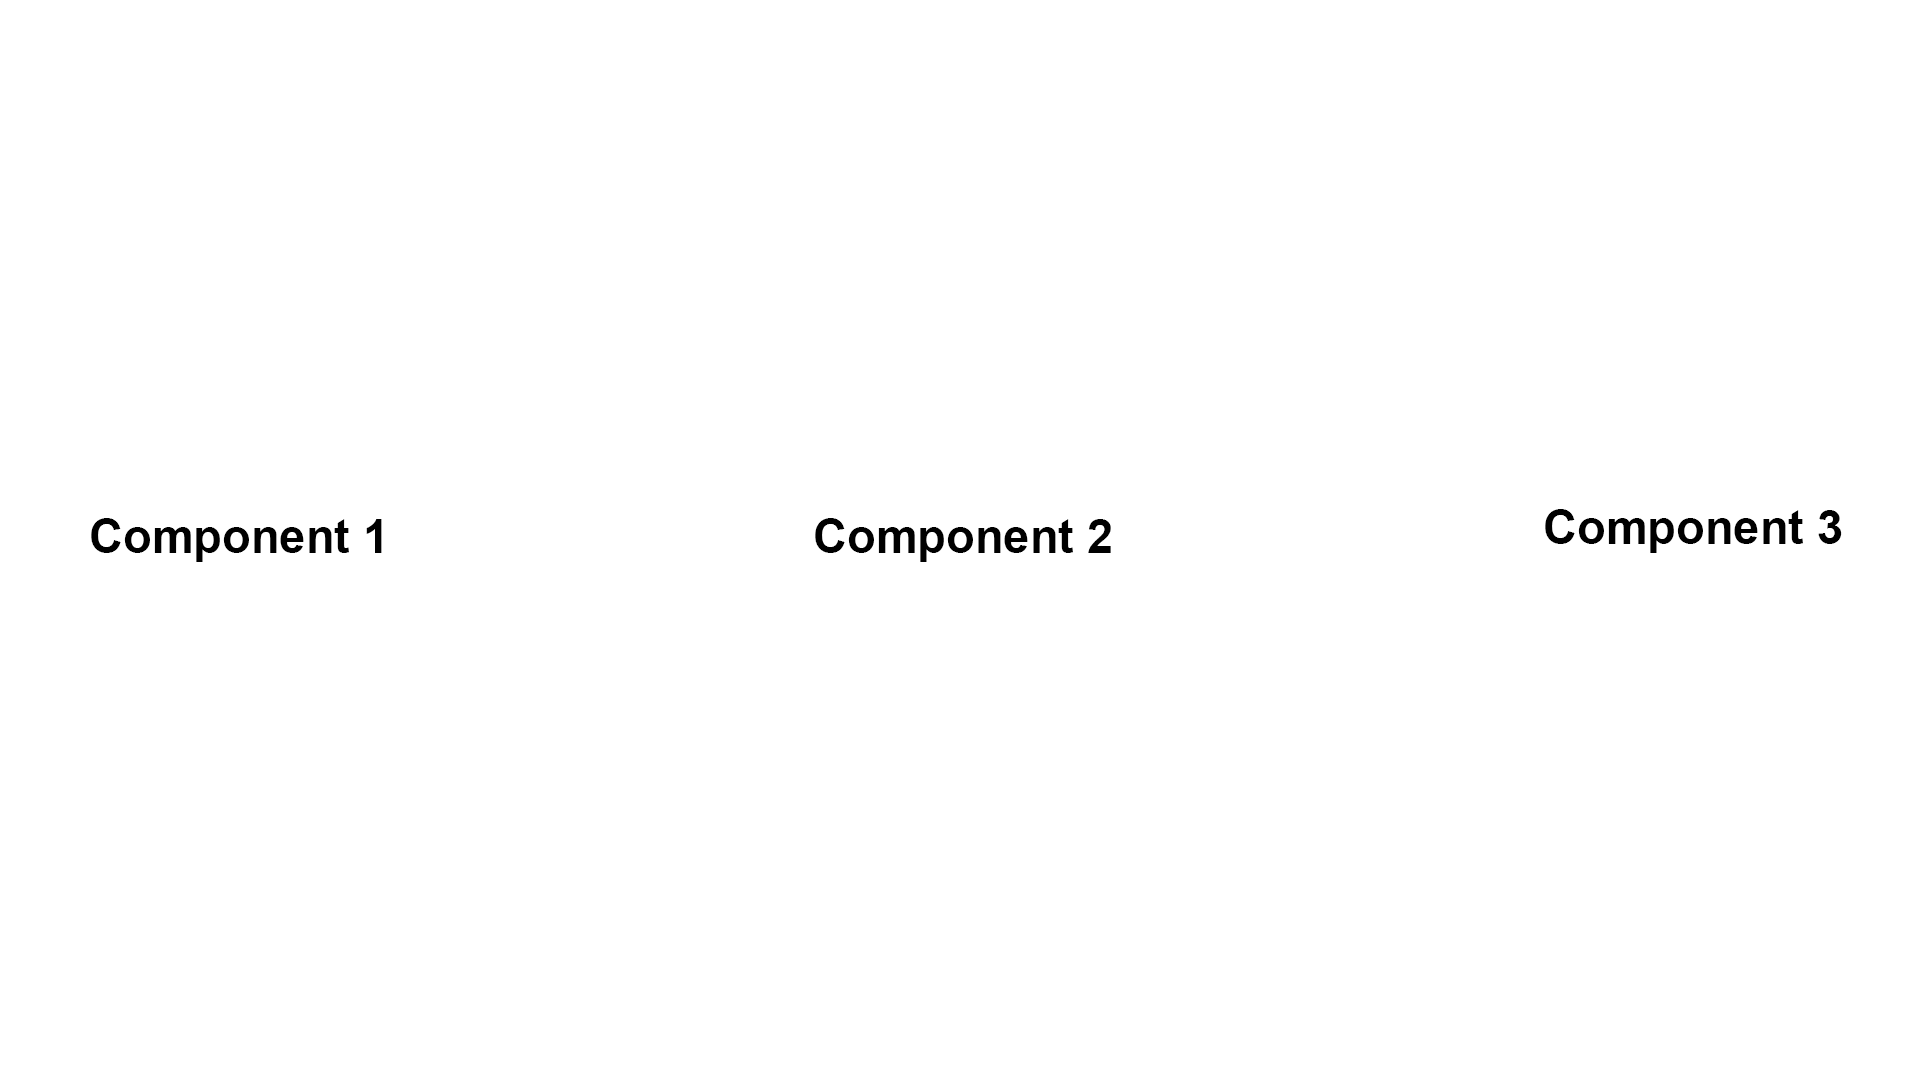
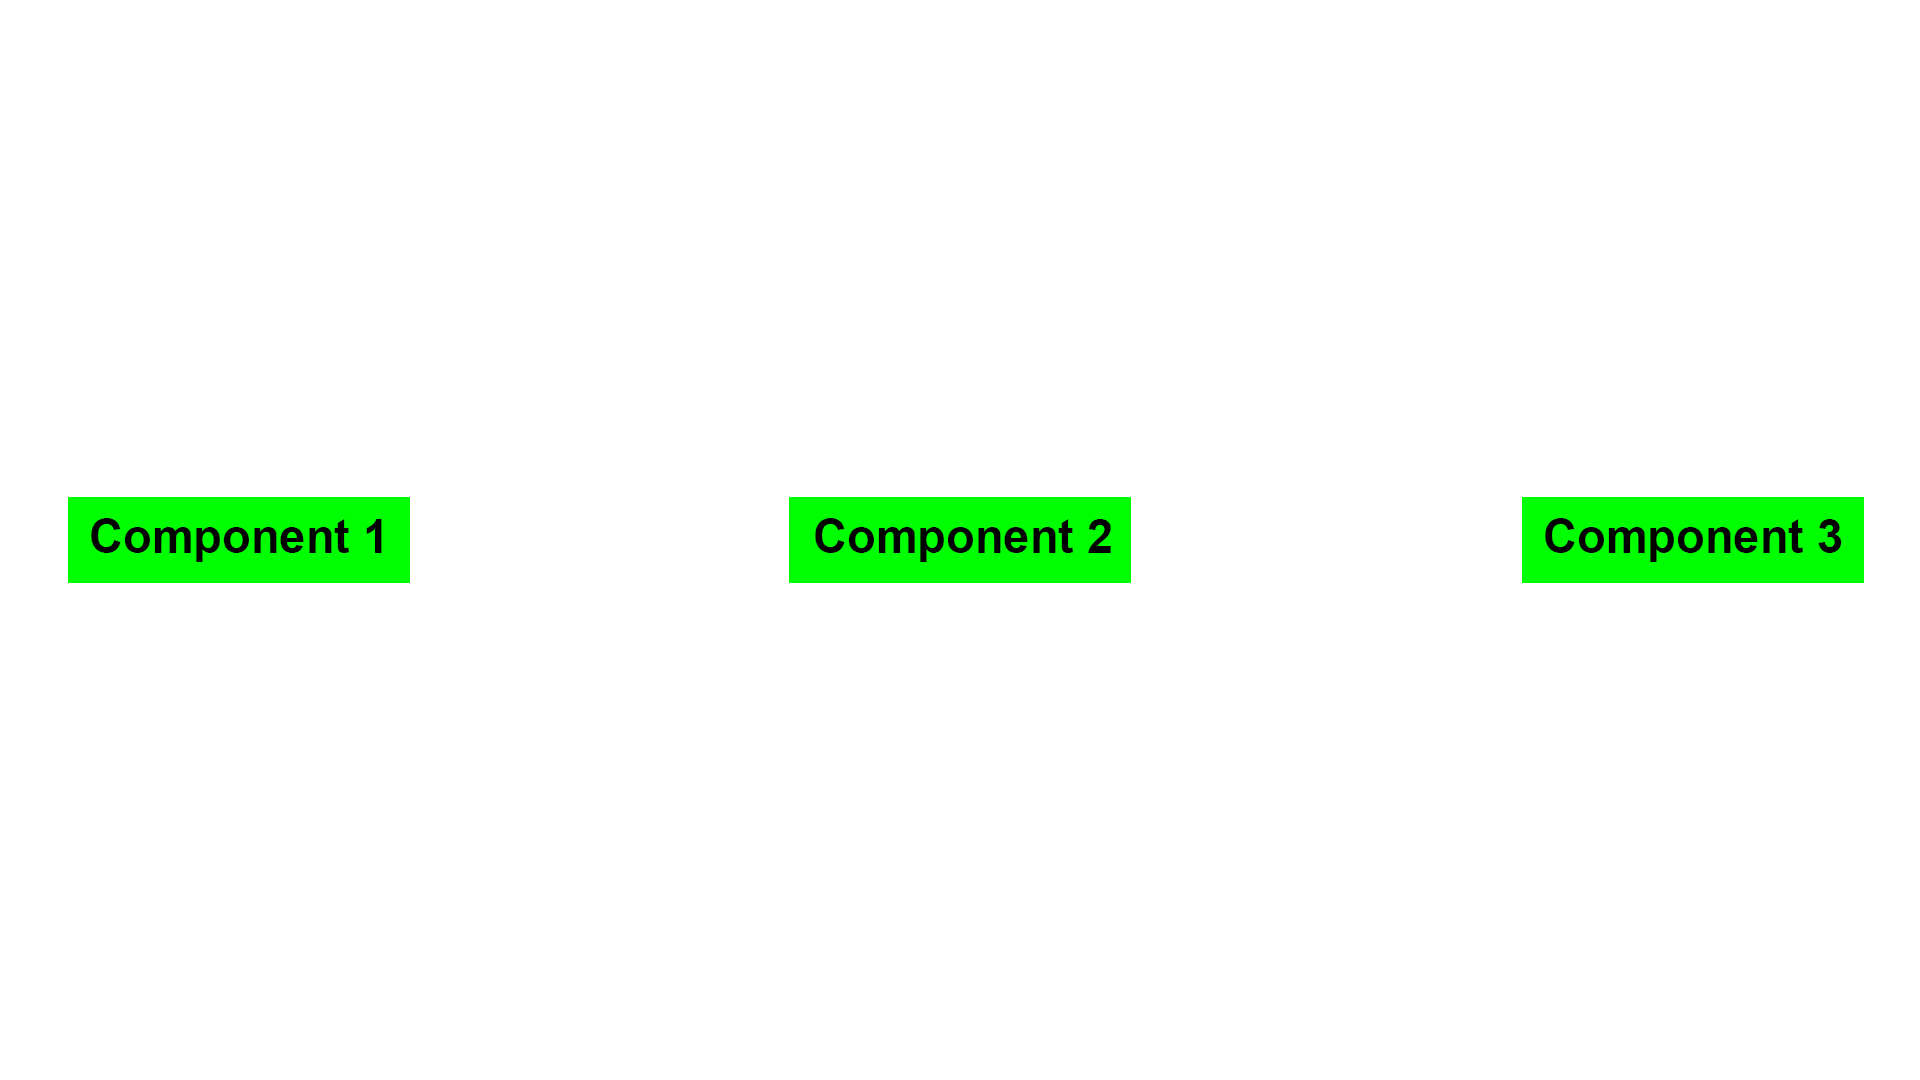
Update layout

Changed region(s): [[0.7812, 0.4583, 0.9688, 0.55], [0.4062, 0.4583, 0.5938, 0.55], [0.0312, 0.4583, 0.2188, 0.55]]

diff --git a/guides/layout.md b/guides/layout.md
@@ -1,12 +1,16 @@
-### Layout and Styles
+# Layout and Styles
 
 
-1. **Import the View component:** In your React Native app, you can use the View component to define the layout of your user interface. To use the View component, you will need to import it from the react-native library. Add the following line at the top of your JavaScript file:
+## Import the View component:
+
+In your React Native app, you can use the View component to define the layout of your user interface. To use the View component, you will need to import it from the react-native library. Add the following line at the top of your JavaScript file:
 ```js
 import { View } from 'react-native'
 ```
 
-2. **Use the View component:** The View component is used to define a container for other components. You can use it to create different types of layouts by specifying the flexDirection, justifyContent, and alignItems props. For example, the following code creates a View with a horizontal layout:
+## Use the View component:
+
+The View component is used to define a container for other components. You can use it to create different types of layouts by specifying the flexDirection, justifyContent, and alignItems props. For example, the following code creates a View with a horizontal layout:
 
 ```js
 <View style={{ flexDirection: 'row', justifyContent: 'space-between', alignItems: 'center' }}>
@@ -14,7 +18,9 @@ import { View } from 'react-native'
 </View>
 ```
 
-3. **Nest View components:** You can nest multiple View components inside each other to create more complex layouts. For example, the following code creates a vertical layout with a header and a footer:
+## Nest View components:
+
+You can nest multiple View components inside each other to create more complex layouts. For example, the following code creates a vertical layout with a header and a footer:
 
 ```js
 <View style={{ flex: 1 }}>
@@ -31,36 +37,38 @@ import { View } from 'react-native'
 ```
 
 
-4. **Use the Text component:** The Text component is used to display text in your React Native app. To use the Text component, you will need to import it from the react-native library. Add the following line at the top of your TypeScript file:
-```
+## Use the `Text` component: 
+
+The Text component is used to display text in your React Native app. To use the Text component, you will need to import it from the react-native library. Add the following line at the top of your TypeScript file:
+```tsx
 import { Text } from 'react-native'
 ```
 
 You can then use the Text component to display text inside a View component like this:
 
-```
+```tsx
 <View>
   <Text>Hello, world!</Text>
 </View>
 ```
 
-5. **Align components**
+## Align components
 To algin components in React Native, you can use the Flexbox layout system to align components within a container. Flexbox is a layout system that allows you to control the position and size of elements within a container by setting thier flex properties. 
 
 To align components in React Native using Flexbox, you will need to use the View component and set the flexDirection, justifyContent, and alignItems props.
 
 Here is an example of how to align components horizontally within a container using Flexbox in TypeScript:
 
-```js
+```tsx
 import React from 'react'
 import { View, Text } from 'react-native'
 
 const Container: React.FC = () => {
   return (
     <View style={{ flexDirection: 'row', justifyContent: 'space-between', alignItems: 'center' }}>
-      <Text>Component 1</Text>
-      <Text>Component 2</Text>
-      <Text>Component 3</Text>
+      <Text style={{ backgroundColor: 'green', padding: 10>Component 1</Text>
+      <Text style={{ backgroundColor: 'green', padding: 10>Component 2</Text>
+      <Text style={{ backgroundColor: 'green', padding: 10>Component 3</Text>
     </View>
   )
 }
@@ -68,5 +76,81 @@ const Container: React.FC = () => {
 Which will render:
 ![](textComponents.png)
 
+## Advanced Layout
 
-That's it! You're now ready to start using layout in your React Native app. You can find more detailed documentation and examples on the React Native [website](https://reactnative.dev/) to help you get started.
+Here is an advanced layout example using a `StyleSheet` instead to define the styles outside of the components itself, which is useful to avoid copied inline styles.
+
+```tsx
+import React from 'react'
+import { View, Text, StyleSheet } from 'react-native'
+
+const styles = StyleSheet.create({
+  container: {
+    flex: 1,
+    flexDirection: 'column',
+    justifyContent: 'space-between',
+    alignItems: 'stretch',
+  },
+  topContainer: {
+    flex: 1,
+    backgroundColor: '#eee',
+    alignSelf: 'stretch',
+  },
+  bottomContainer: {
+    flex: 1,
+    backgroundColor: '#ccc',
+    alignSelf: 'stretch',
+  },
+  leftContainer: {
+    flex: 1,
+    backgroundColor: '#aaa',
+  },
+  rightContainer: {
+    flex: 1,
+    backgroundColor: '#888',
+  },
+  centerContainer: {
+    flex: 2,
+    backgroundColor: '#333',
+    alignSelf: 'stretch',
+  },
+  text: {
+    fontSize: 18,
+    color: '#fff',
+    textAlign: 'center',
+  },
+})
+
+const AdvancedFlexboxLayout: React.FC = () => {
+  return (
+    <View style={styles.container}>
+      <View style={styles.topContainer}>
+        <Text style={styles.text}>Top Container</Text>
+      </View>
+      <View style={styles.bottomContainer}>
+        <Text style={styles.text}>Bottom Container</Text>
+      </View>
+      <View style={{ flexDirection: 'row' }}>
+        <View style={styles.leftContainer}>
+          <Text style={styles.text}>Left Container</Text>
+        </View>
+        <View style={styles.centerContainer}>
+          <Text style={styles.text}>Center Container</Text>
+        </View>
+        <View style={styles.rightContainer}>
+          <Text style={styles.text}>Right Container</Text>
+        </View>
+      </View>
+    </View>
+  )
+}
+
+export default AdvancedFlexboxLayout
+```
+This code creates a layout with three main sections: a top container, a bottom container, and a middle section with a left, center, and right container. The top and bottom containers are stacked vertically, and the middle section is a row with the left and right containers on either side of the center container.
+
+The `flexDirection` property on the root `View` element is set to `column`, which arranges the children vertically. The `justifyContent` property is set to `space-between`, which distributes the space between the top and bottom containers evenly. The `alignItems` property is set to `stretch`, which causes the top and bottom containers to stretch to fill the available space.
+
+The middle section is a row, with the `flexDirection` property set to row. The `alignSelf` property is set to `stretch` on the center container, causing it to stretch to fill the available space.
+
+Flexbox is implemented the same way on the web, so you can test different flex properties on your own by using the web [here](https://coding.imweb.io/demo/flex/index.html).
